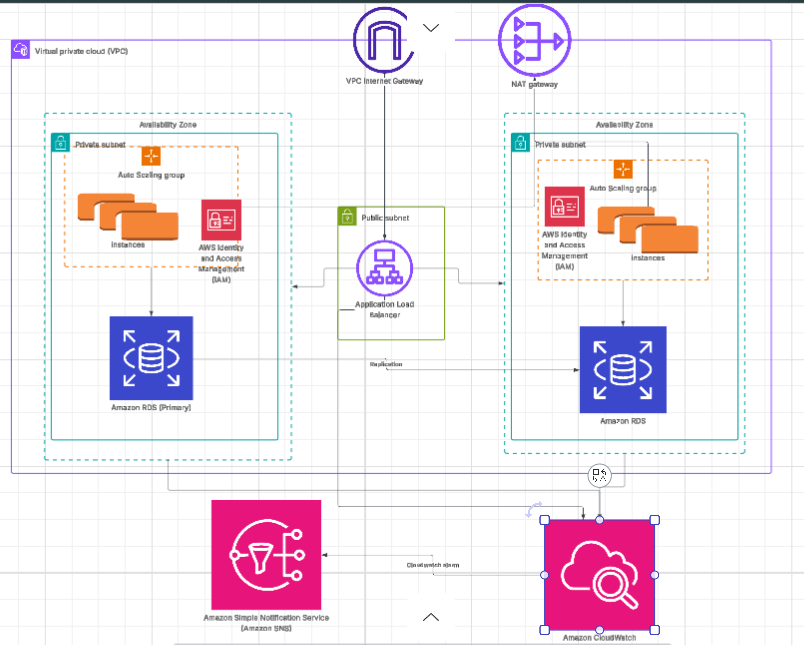
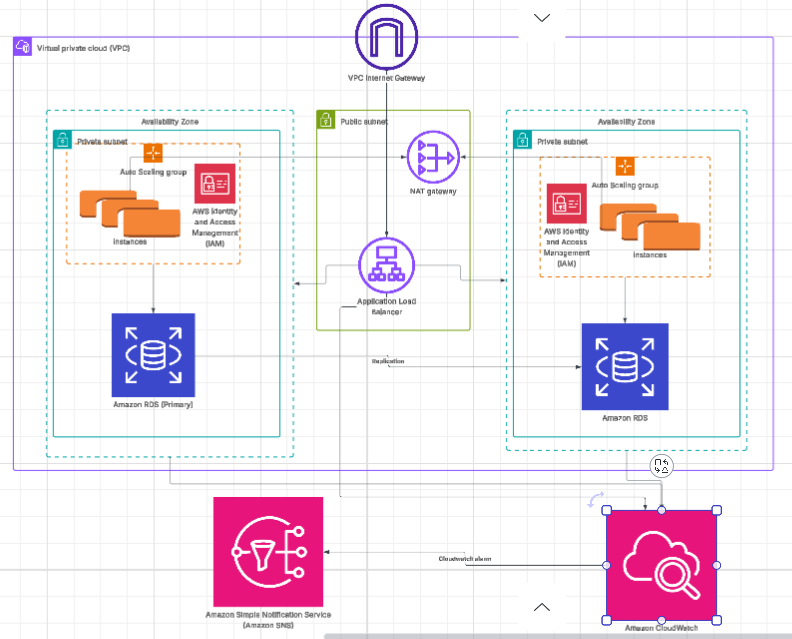
Add architecture documentation for AWS scalable web application

diff --git a/docs/architecture-documentation.md b/docs/architecture-documentation.md
@@ -1,1 +1,127 @@
-# Coming soon
+# AWS Scalable and Highly Available Web Application Architecture
+
+## 1. Overview
+
+This project demonstrates how to deploy a secure, scalable, and highly available web application on Amazon Web Services (AWS) using EC2, Elastic Load Balancing (ALB), and Auto Scaling Groups (ASG).
+
+The goal was not just to “run a web app” but to design it the way real-world production systems are built — fault-tolerant, cost-efficient, and self-adjusting to traffic demands.
+
+In simple terms:
+
+If one server goes down, users won’t notice. If traffic spikes, more servers automatically come online. If traffic slows, costs go down.
+
+## 2. High-Level Design
+
+At its core, the architecture is built inside a Virtual Private Cloud (VPC) — AWS’s logically isolated network environment — and distributed across two Availability Zones (AZs) for redundancy.
+
+The main components include:
+
+- `Elastic Load Balancer (ALB)` to evenly distribute incoming traffic.
+
+- `Auto Scaling Group (ASG)` managing multiple EC2 instances that host the web application.
+
+- `Amazon RDS` database in a `Multi-AZ` setup for data availability.
+
+- `IAM, CloudWatch`, and `SNS` to handle security, monitoring, and alerts.
+
+- `NAT Gateway` and `Internet Gateway` to securely route network traffic.
+
+## 3. Detailed Architecture Walkthrough
+
+Let’s walk through the flow step by step — from the moment a user visits the application to how AWS keeps it running behind the scenes.
+
+### Step 1: User Access via the Internet
+
+Users access the web application through a domain name (can be managed by Route 53).
+The request is routed to the Application Load Balancer (ALB) sitting in the public subnet of the VPC.
+
+The ALB acts like the front door — it receives all traffic and smartly distributes it to healthy backend servers.
+
+### Step 2: Load Balancing Across Availability Zones
+
+The ALB forwards the request to the Auto Scaling Group (ASG), which manages a pool of EC2 instances located in private subnets across two Availability Zones.
+
+This setup ensures:
+
+- If one Availability Zone fails, the other continues serving traffic.
+
+- The web app remains available 24/7.
+
+Each EC2 instance runs the web application and connects securely to the database tier.
+
+### Step 3: Database Layer – Amazon RDS
+
+The `Amazon RDS` service (configured with `Multi-AZ` replication) hosts the backend database — for example, `MySQL` or `PostgreSQL`.
+
+- The `primary RDS instance` handles read/write operations.
+
+- The `secondary instance` in another AZ stands by for automatic failover.
+
+This means even if one AZ or DB node fails, AWS automatically promotes the standby node, keeping the application online.
+
+### Step 4: Secure Network Design
+
+The network is carefully segmented for security and control:
+
+- **Public Subnet**:
+Contains the ALB and NAT Gateway, which have direct internet access.
+
+- **Private Subnets**:
+Contain the EC2 instances and RDS databases — isolated from direct internet exposure.
+Outbound access (for updates, patches, etc.) happens through the NAT Gateway, ensuring security best practices.
+
+- **IAM Roles**:
+EC2 instances are assigned specific `IAM roles` to securely access other AWS services (like S3 or CloudWatch) without using long-term credentials.
+
+### Step 5: Auto Scaling for Performance and Cost Optimization
+
+The `Auto Scaling Group` monitors metrics like CPU utilization via Amazon CloudWatch.
+When traffic increases, new EC2 instances are launched automatically.
+When demand drops, extra instances are terminated to save costs.
+
+This dynamic scaling ensures:
+
+- Consistent performance under varying loads.
+
+- Optimized resource usage and spending.
+
+### Step 6: Monitoring, Alerts, and Observability
+
+`Amazon CloudWatch` continuously tracks key metrics such as:
+
+- CPU utilization on EC2 instances
+
+- Request counts and latency on the ALB
+
+- Database health
+
+If any metric crosses a predefined threshold (e.g., CPU > 80%), `CloudWatch` triggers an `Amazon SNS` (Simple Notification Service) alert.
+This sends an email or SMS notification to the operations team, enabling quick response before an issue impacts users.
+
+## 4. Security Best Practices Applied
+
+- **Network Isolation**:
+Public and private subnets ensure that backend resources (EC2 and RDS) are never directly exposed to the internet.
+
+- **Least Privilege Access**:
+IAM roles grant only the permissions required by each component.
+
+- **Encrypted Connections**:
+All communication between ALB, EC2, and RDS can be configured to use HTTPS/TLS for data-in-transit encryption.
+
+- **High Availability**:
+Redundant setup across multiple AZs prevents downtime from hardware or AZ-level failures.
+
+## 5. Cost Optimization Techniques
+
+- **Auto Scaling**:
+Automatically scales down during low traffic, reducing compute costs.
+
+- **Right-Sized EC2 Instances**:
+Chosen based on the application’s performance needs to avoid overprovisioning.
+
+- **RDS Multi-AZ Standby**:
+Adds resilience but is used efficiently — no additional reads happen on standby to avoid unnecessary cost.
+
+- **CloudWatch Metrics**:
+Help continuously fine-tune instance sizes and scaling policies.
